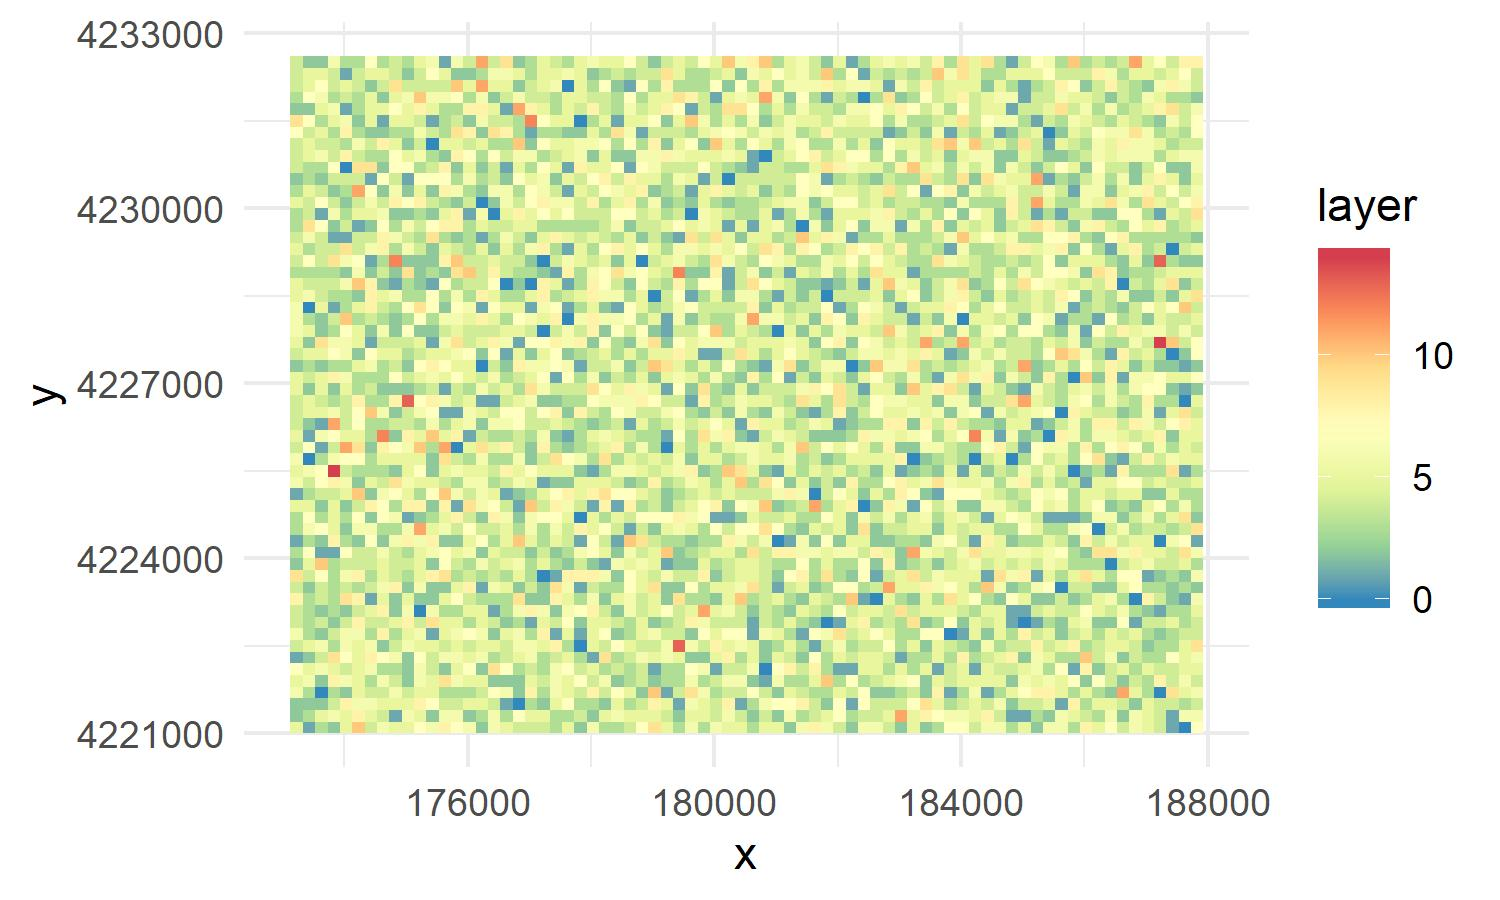
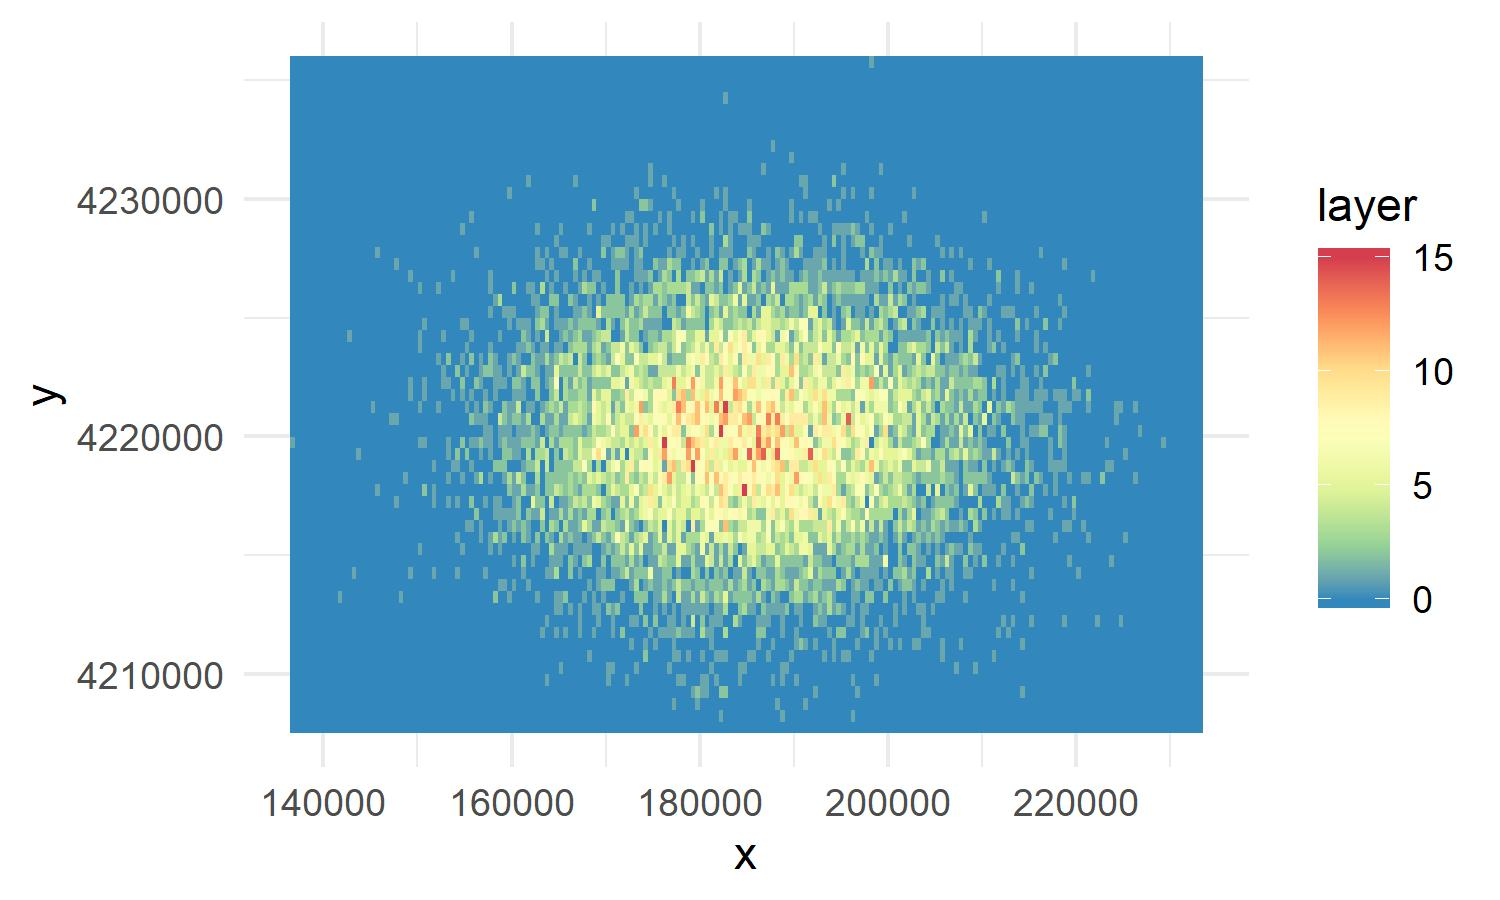
updated design

diff --git a/_sass/overwrite/all-content.scss b/_sass/overwrite/all-content.scss
@@ -17,6 +17,7 @@ $content-max-width:1100px;
   margin:1rem 0;
   border-bottom:none;
   .site-logo{
+    font-family: "Poppins", sans-serif;
     font-weight:$header-font-weight-bold;
     font-size:6rem;
     line-height:5rem;
@@ -29,6 +30,7 @@ $content-max-width:1100px;
 
 .site-nav .page-link{
   color:$black;
+  font-family: "Poppins", sans-serif;
   font-weight:$body-font-weight;
   line-height:5rem;
   font-weight:400;
@@ -55,7 +57,7 @@ $content-max-width:1100px;
   }
   p {
     color:$light-grey;
-    font-size:1.3rem;
+    font-size:1.15rem;
     margin-top:1rem;
     max-width:$writing-width;
   }
@@ -197,13 +199,17 @@ ul.article-list {
   display:block;
   margin-bottom:10px;
 }
+.list-date {
+  color: $light-grey;
+  margin-bottom:10px;
+}
 .page-header {
   margin-bottom:2rem;
   width:$writing-width;
   max-width:95%;
 }
 .page-title {
-  font-size:4rem;
+  font-size:$post-title-size;
   padding:0;
   font-weight:$header-font-weight-bold;
   margin:3rem 0 0 0;
@@ -259,6 +265,13 @@ sub{
 }
 .post-title{
   font-size:$post-title-size;
+  text-align:center;
+  line-height: 1.3;
+}
+.post-date{
+  text-align:center;
+  color: $light-grey;
+
 }
 
 .post-content p.caption {

diff --git a/_layouts/home.html b/_layouts/home.html
@@ -14,7 +14,7 @@
   <main class="home page-content" aria-label="Content">
     <div class="flex-layout">
       <div class="left-column-main">
-        <h1 class="post-title">Latest Notes</h1>
+        <h1 class="page-title">Latest Notes</h1>
         <section>
           <ul class="article-list">
             {% assign count = 0 %}
@@ -22,7 +22,7 @@
             {% assign count = count | plus:1 %}
             <li>
               <h1 class="post-link-title"><a href="{{ post.url | relative_url}}">{{ post.title }}</a></h1>
-              <sub class="post-date">{{ post.date | date: '%B %d, %Y' }}</sub>
+              <sub class="list-date">{{ post.date | date: '%B %d, %Y' }}</sub>
               {{ post.excerpt }}
             </li>
             {% if count == 6 %}{% break %}

diff --git a/_sass/overwrite/text.scss b/_sass/overwrite/text.scss
@@ -1,10 +1,12 @@
 @import url('https://fonts.googleapis.com/css?family=Sarabun:300,500');
 @import url('https://fonts.googleapis.com/css?family=Poppins:200,400,800');
-$h-font:"Poppins", sans-serif;
-$h2-font:"Poppins", sans-serif;
-$b-font: "Sarabun", serif;
+@import url('https://fonts.googleapis.com/css?family=PT+Serif:400,400i,700,700i&display=swap');
+
+$h-font:"PT Serif", sans-serif;
+$h2-font:"PT Serif", sans-serif;
+$b-font: "PT Serif", sans-serif;
 $font-size:1.15rem;
-$post-title-size:4rem;
+$post-title-size:5rem;
 $body-font-weight:300;
 $header-font-weight:800;
 $header-font-weight-bold:800;

diff --git a/_layouts/article-list.html b/_layouts/article-list.html
@@ -8,7 +8,7 @@ layout: page
 {% for post in site.categories[page.category] %}
   <li>
     <h1 class="post-link-title"><a href="{{ post.url | relative_url}}">{{ post.title }}</a></h1>
-    <sub class="post-date">{{ post.date | date: '%B %d, %Y' }}</sub>
+    <sub class="list-date">{{ post.date | date: '%B %d, %Y' }}</sub>
     {{ post.excerpt }}
     <!--  excerpt to add in category lists {% assign categories = post.categories %}
 

diff --git a/r/_posts/2019-09-11-kernal-density-in-r.md b/r/_posts/2019-09-11-kernal-density-in-r.md
@@ -6,7 +6,7 @@ categories: [ raster, R , sf ]
 published: true
 ---
 
-For a recent project I needed to run a kernel density estimation in R, turning a GPS points into a raster of point densities.  Below is how I accomplished that.
+For a recent project I needed to run a kernel density estimation in R, turning  GPS points into a raster of point densities.  Below is how I accomplished that.
 
 ## Load the needed libraries
 
@@ -20,7 +20,7 @@ If you don't have these packages you need to run `install.packages(c("sf", "rast
 
 ## Create XY Points
 
-For the purposes of this excercise we will not be loading a shapefile but instead making one out of randomly generated X and Y courdinates. We will create UTM coordinates in Zone 13. You could also create Latitude and Longitude coordinates if you wanted. Here are the bounds of the coordinates:
+For the purposes of this exercise, and because the original dataset I worked with is not available to the public, we will not be loading a shapefile but instead making one out of randomly generated X and Y coordinates. We will create UTM coordinates in Zone 13. You could also create Latitude and Longitude coordinates if you wanted. Here are the bounds of the coordinates:
 
 **Northing max:** 4232607 <br>
 **Northing min:** 4220932
@@ -28,12 +28,12 @@ For the purposes of this excercise we will not be loading a shapefile but instea
 **Easting max:** 187973 <br>
 **Easting min:** 173118
 
-We'll use `rnorm` to generate 20000 coordinate pairs randomly.  You could also use `runif` but `rnorm` creates areas with higher densities.
+We'll use `rnorm` to generate 20000 coordinate pairs randomly.  You could also use `runif` but `rnorm` creates areas with higher densities so our plot is not uniform.
 
 ```r
 coord<-tibble(
-  northing = runif(20000, 4220932, 4232607),
-  easting = runif(20000, 173118, 187973)
+  northing = rnorm(10000, 4220105, 3589.521),
+  easting = rnorm(10000, 185310.8, 12709.06)
 )
 ```
 
@@ -47,7 +47,7 @@ coord%>%
 ```
 ![Plot X and Y coordinates with ggplot]({{"/r/assets/plots/xy_plot.jpg" | relative_url }})
 
-Everything looks good.  Now we need to convert the xy coordinates to a shapefile.
+Everything looks good. Now we need to convert the xy coordinates to a shapefile.
 
 ## Converting xy coordinates to a shapefile
 
@@ -89,24 +89,21 @@ Let's take a look at our new shapefile.
 ```r
 ggplot()+
   geom_sf(data = sf_obj, color = "steelblue", size = 3, alpha = 0.3)+
-  theme_minimal()+
-  ggsave("saved_plots/sf_xy.jpg", width = 5, height = 3)
+  theme_minimal()
 ```
-
-The plot looks very similar to the xy plot (duh they are the exact same).
+The plot looks very similar to the xy plot (they should be the same), but now the points are projected.  If you look at the lines behind the points you see that they are slightly askew.
 
 ![Plot sf object with ggplot]({{"/r/assets/plots/sf_xy.jpg" | relative_url }})
 
 ## Make a empty raster
 
-Now we will create an empty raster that we will use to calculate the kernel density from.  The resolution we set will be the resolution of the kernal density. We will use the `raster()` function from the raster package to make the raster.
-
+Now we will create an empty raster that we will use to calculate the kernel density from.  The resolution we set will be the resolution of the kernel density. We will use the `raster()` function from the raster package to make the raster.
 
 ```r
 empty_kernel_grid<-raster(ext = extent(sf_obj), resolution = 200, crs = st_crs(sf_obj))
 ```
 
-Next we will take our points that we created and use the `fun = 'count'` parameter in the `rasterize` function from the raster package to count all the points that fall within a given raster cell.  We will also tell rasterize to use the empty_kernel_grid() raster for the bounds of the raster.
+Next we will take our points that we created and use the `fun = 'count'` parameter in the `rasterize` function from the to count all the points that fall within a given raster cell.  We will also tell rasterize to use the `empty_kernel_grid` raster for the bounds of the raster.
 
 ```r
 kernel_density<-rasterize(coordinates(as_Spatial(sf_obj)), empty_kernel_grid, fun='count', background = 0)
@@ -121,8 +118,7 @@ point_raster<-as_tibble(rasterToPoints(kernel_density))
 ggplot(point_raster, aes(x = x, y=y))+
   geom_raster(aes(fill = layer))+
   theme_minimal()+
-  scale_fill_distiller(palette = "Spectral")+
-  ggsave("saved_plots/kernal_plot.jpg", height = 5, width = 3)
+  scale_fill_distiller(palette = "Spectral")
 ```
 Even though we had a mass to start, now we see that certain 200m areas are mor dense than other.
 
